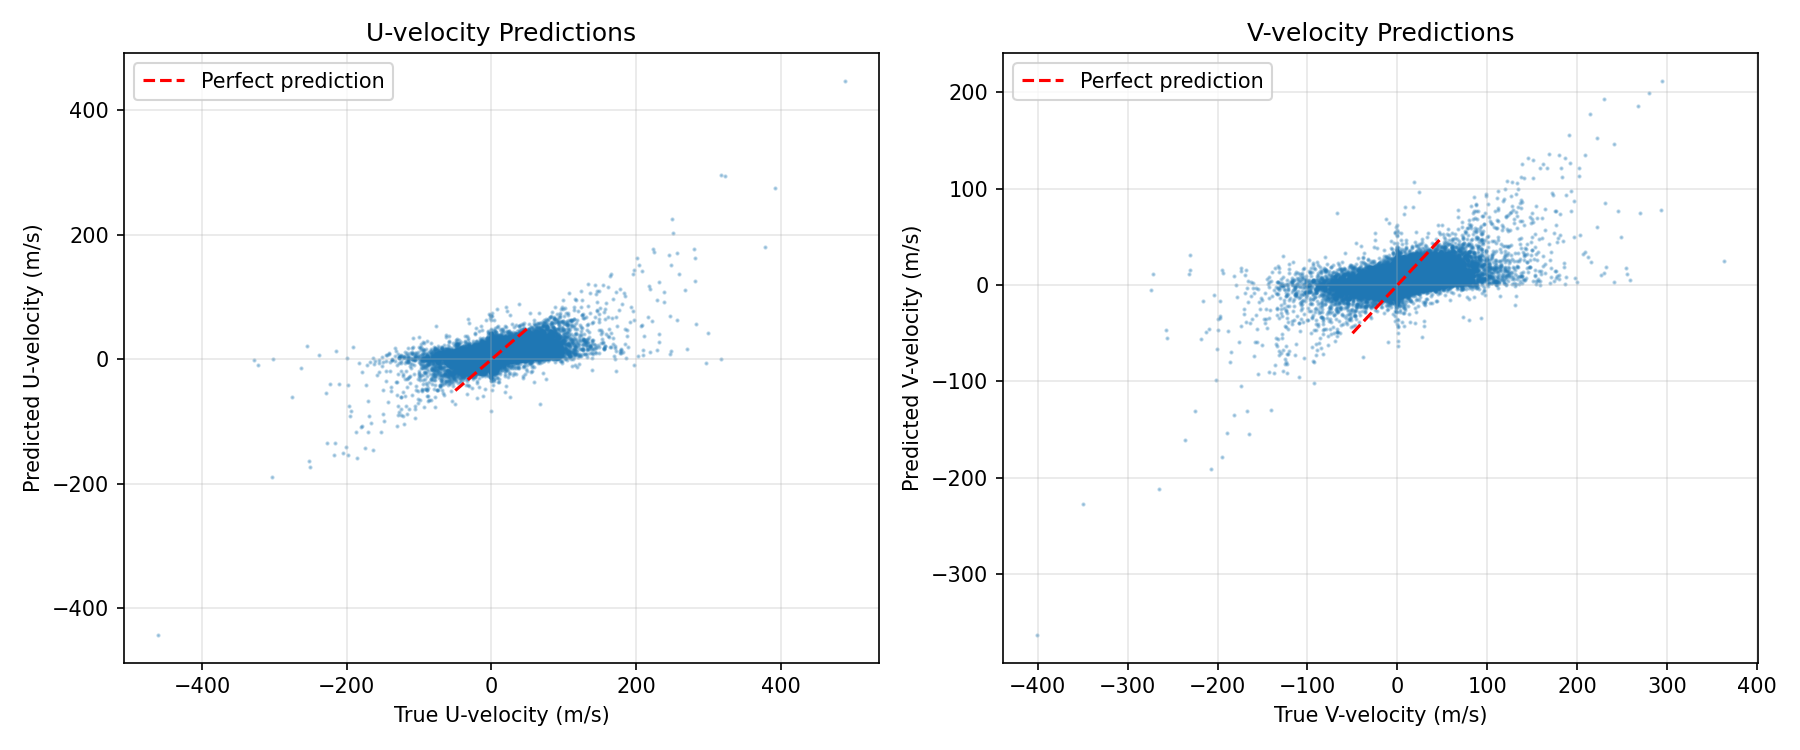
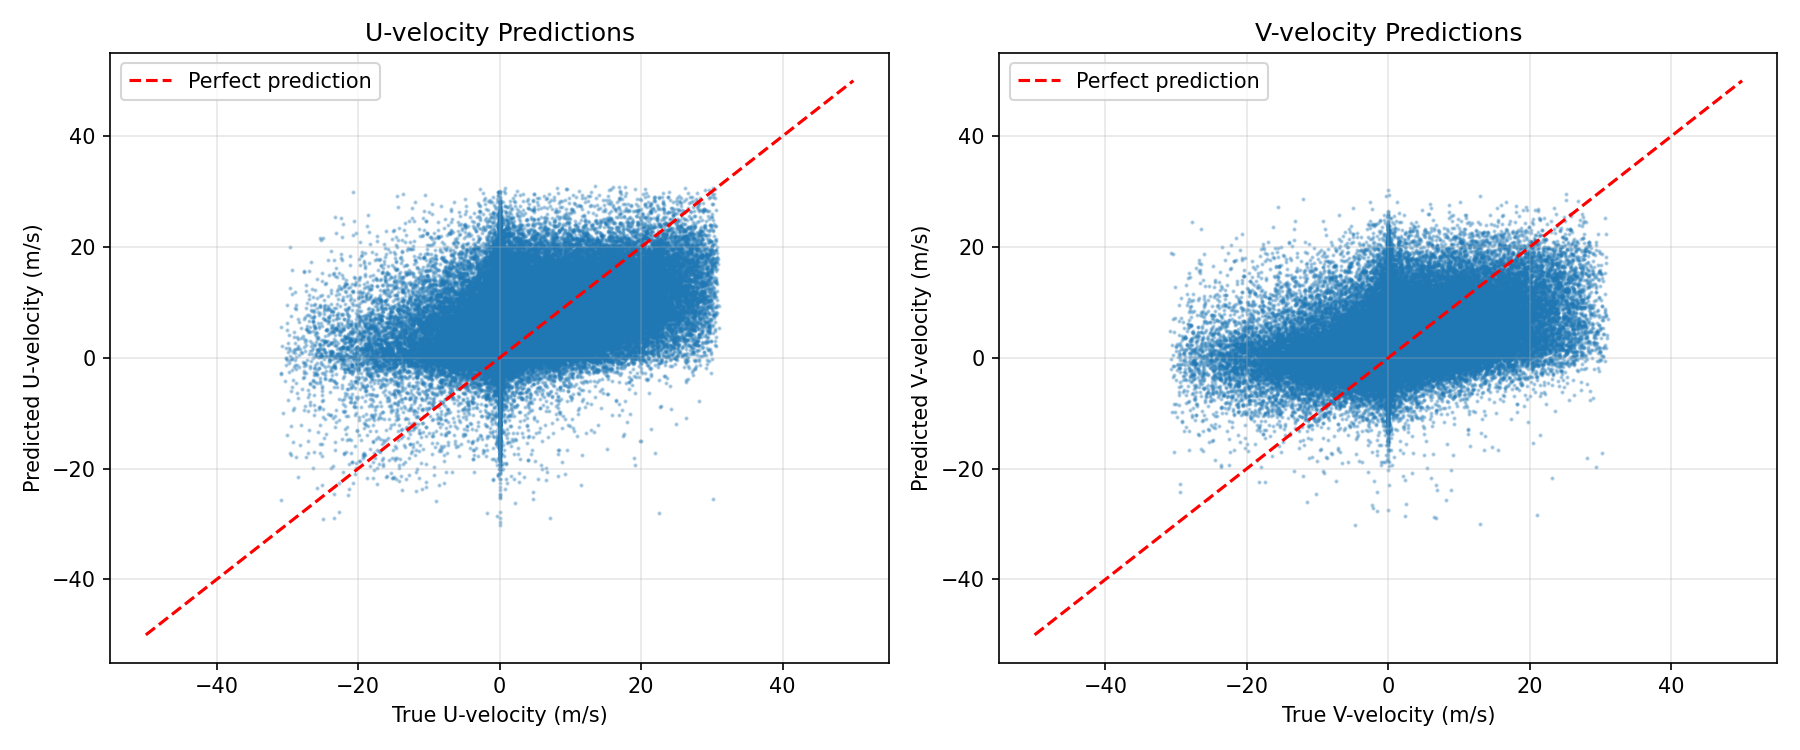
Add 31 m/s sanity check

diff --git a/src/baseline_comparison.py b/src/baseline_comparison.py
@@ -176,6 +176,20 @@ def compare_baseline(data_dir, n_history=5):
     
     print(f"\nTotal valid samples: {len(X)}")
     
+    # Sanity check: filter out unrealistic velocities (> 31 m/s)
+    mag_true = np.sqrt(y_true[:, 0]**2 + y_true[:, 1]**2)
+    mag_baseline = np.sqrt(y_baseline[:, 0]**2 + y_baseline[:, 1]**2)
+    
+    valid_mask = (mag_true <= 31) & (mag_baseline <= 31)
+    n_filtered = np.sum(~valid_mask)
+    
+    if n_filtered > 0:
+        print(f"Filtered {n_filtered} samples with velocity > 31 m/s (sanity check)")
+        y_true = y_true[valid_mask]
+        y_baseline = y_baseline[valid_mask]
+        X = X[valid_mask]
+        print(f"Remaining samples: {len(y_true)}")
+    
     print("\n" + "="*60)
     print(f"BASELINE COMPARISON: {n_history}-Scan Average Extrapolation")
     print("="*60)

diff --git a/src/infer.py b/src/infer.py
@@ -94,6 +94,20 @@ def infer_on_validation(data_dir, model_dir, output_dir="results"):
     print("Making predictions...")
     y_pred = model.predict(X_scaled)
     
+    # Sanity check: filter out unrealistic velocities (> 31 m/s)
+    mag_true = np.sqrt(y[:, 0]**2 + y[:, 1]**2)
+    mag_pred = np.sqrt(y_pred[:, 0]**2 + y_pred[:, 1]**2)
+    
+    valid_mask = (mag_true <= 31) & (mag_pred <= 31)
+    n_filtered = np.sum(~valid_mask)
+    
+    if n_filtered > 0:
+        print(f"\nFiltered {n_filtered} samples with velocity > 31 m/s (sanity check)")
+        y = y[valid_mask]
+        y_pred = y_pred[valid_mask]
+        X = X[valid_mask]
+        print(f"Remaining samples: {len(y)}")
+    
     # Compute overall metrics
     mse = mean_squared_error(y, y_pred)
     mae = mean_absolute_error(y, y_pred)
